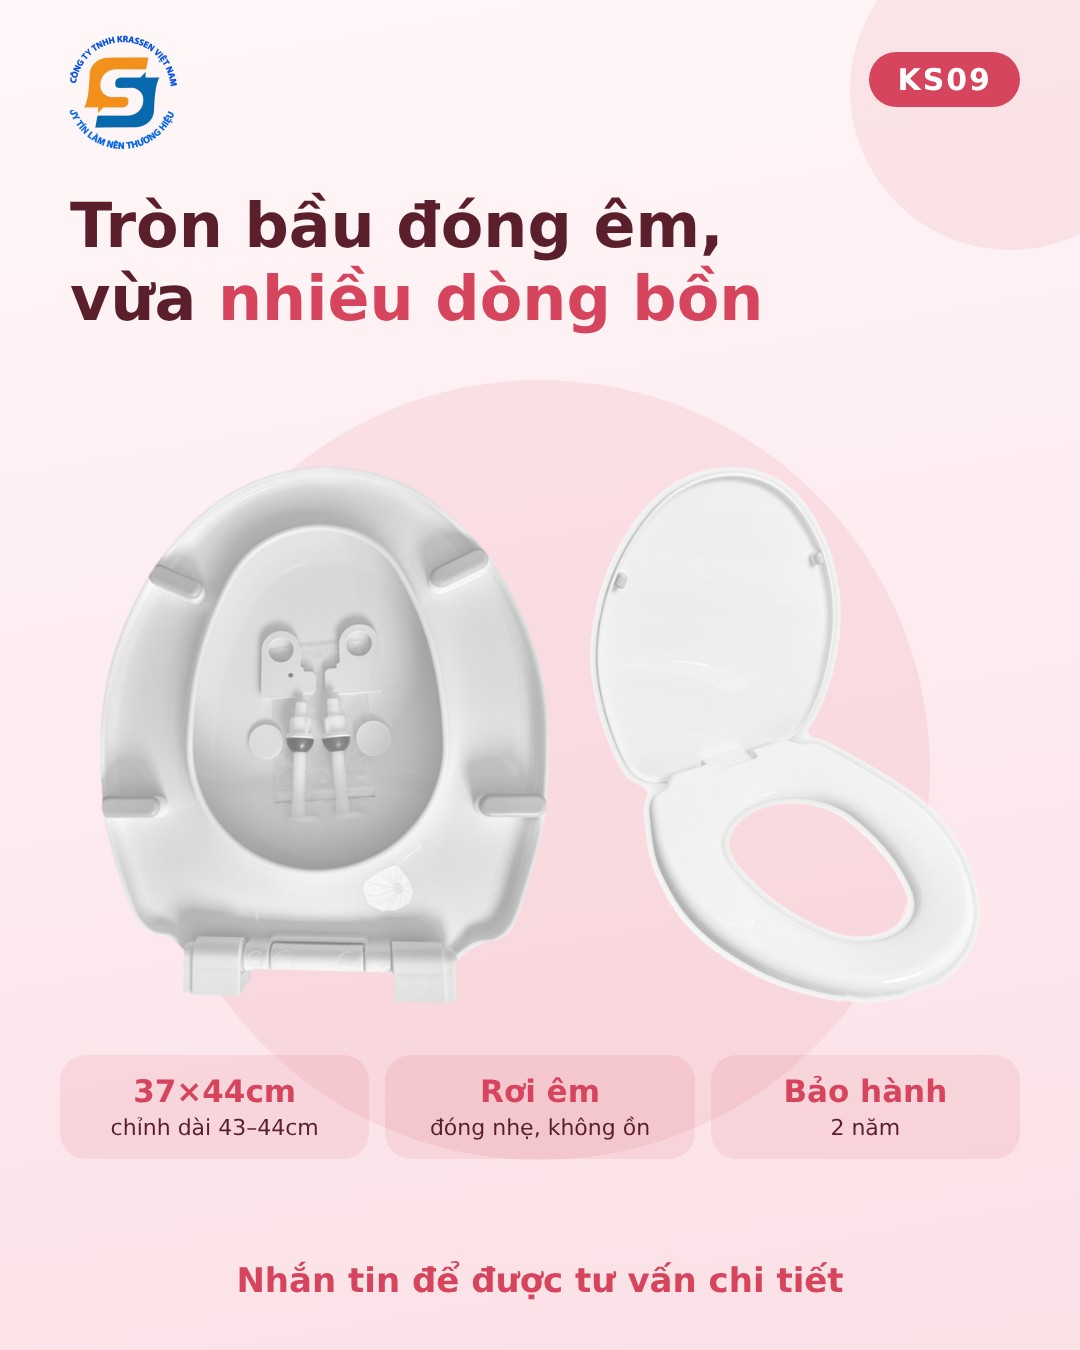
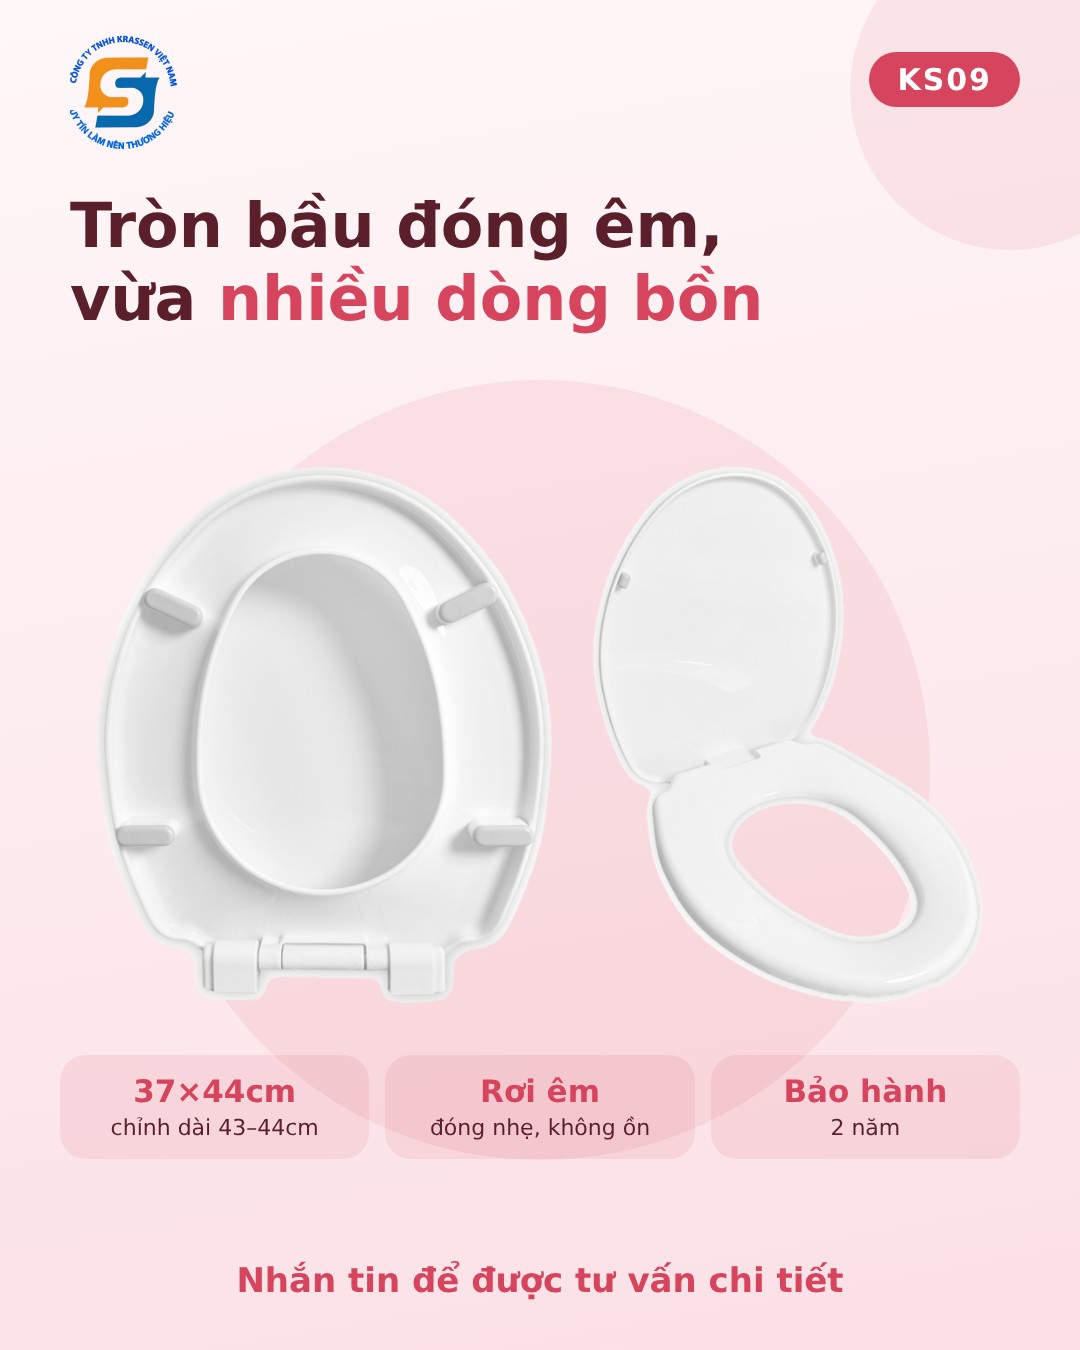
Manifest v8: doi ma KS04U->KS07U, KVS600->KSV600; them KS09U, KS12VB; anh moi KS09, KS005
Claude-Session: https://claude.ai/code/session_013caNe4PvgU8QmB7DtUJ3vr

diff --git a/tools/captions6.py b/tools/captions6.py
@@ -1,0 +1,57 @@
+# -*- coding: utf-8 -*-
+import json, re
+CTA = "📩 Nhắn tin để được tư vấn chi tiết và đúng size bồn cầu nhà bạn!"
+HT = "#krasen #napboncau #naproiem #suachuanhacua"
+_m = json.load(open('manifest.json'))
+_P = {p['code']: p for p in _m['products']}
+def renamed(old, new):
+    return [c.replace(old, new) for c in _P[old]['captions']]
+C = {
+ 'KS07U': renamed('KS04U', 'KS07U'),
+ 'KSV600': renamed('KVS600', 'KSV600'),
+ 'KS09U': [
+"""KS09U – nắp bồn cầu chữ U kiểu chụp kín bệ ngồi, 36×46cm 🚽
+✅ Rộng 36cm, dài 46cm (chỉnh dài 46–48cm tính từ mũi đến ngang 2 chân ốc vít)
+✅ Phù hợp bồn cầu rộng 35–36cm, dài 46–48cm
+✅ Nắp đậy chụp kín bệ ngồi, hạn chế nước làm ướt bệ ngồi khi sử dụng
+✅ Rơi chậm không gây tiếng ồn, màu trắng sữa phủ bóng hạn chế trầy xước
+✅ Nhựa PP nguyên sinh cao cấp không ố màu, nặng 1,4kg dày chắc chắn, bảo hành 1 năm
+Phù hợp TOTO (CW162, CW163…), Viglacera (P1135, V199…), American Standard (VF2309, VF2781)…""",
+"""Bồn cầu nhà bạn rộng 35–36cm, dài 46–48cm? KS09U chữ U kiểu chụp kín rất vừa 👌
+Nắp rộng 36cm, dài 46cm, chỉnh dài 46–48cm tính từ mũi đến ngang 2 chân ốc vít. Kiểu nắp đậy chụp kín bệ ngồi, hạn chế nước làm ướt bệ ngồi khi sử dụng.
+
+Rơi chậm không gây tiếng ồn, nhựa PP nguyên sinh cao cấp, trắng sữa phủ bóng, hạn chế trầy xước, không ố màu. Nặng 1,4kg dày chắc chắn, bảo hành 1 năm.
+
+Dùng cho TOTO (CW162, CW163…), Viglacera (P1135, V199…), American Standard (VF2309, VF2781)…""",
+"""🚽 KS09U – nắp bồn cầu chữ U chụp kín bệ ngồi
+▪ Kích thước 36×46cm, chỉnh dài 46–48cm
+▪ Hạn chế nước làm ướt bệ ngồi khi sử dụng
+▪ Rơi chậm, không gây tiếng ồn
+▪ Nhựa PP nguyên sinh cao cấp, trắng sữa phủ bóng, không ố màu
+▪ Nặng 1,4kg dày chắc chắn, bảo hành 1 năm
+Phù hợp bồn cầu rộng 35–36cm, dài 46–48cm: TOTO (CW162, CW163…), Viglacera (P1135, V199…), American Standard (VF2309, VF2781)…"""],
+ 'KS12VB': [
+"""KS12VB – nắp bồn cầu vuông bo rơi chậm 34×45cm ◻
+✅ Rộng 34cm, dài 45cm (chỉnh dài 45–46cm tính từ mũi đến ngang 2 chân ốc vít)
+✅ Phù hợp bồn cầu rộng 34–35cm, dài 45–46cm
+✅ Rơi chậm không gây tiếng ồn, màu trắng sữa phủ bóng hạn chế trầy xước
+✅ Nhựa PP nguyên sinh cao cấp không ố màu, nặng 1,2kg, bảo hành 1 năm
+Phù hợp Ceravi (C304, C315) và các bồn cầu vuông bo cạnh""",
+"""Bồn cầu vuông bo cạnh nhà bạn rộng 34–35cm, dài 45–46cm? KS12VB rất vừa 👌
+Nắp rộng 34cm, dài 45cm, chỉnh dài 45–46cm tính từ mũi đến ngang 2 chân ốc vít.
+
+Rơi chậm không gây tiếng ồn, nhựa PP nguyên sinh cao cấp, trắng sữa phủ bóng, hạn chế trầy xước, không ố màu. Nặng 1,2kg, bảo hành 1 năm.
+
+Dùng cho Ceravi (C304, C315) và các bồn cầu vuông bo cạnh.""",
+"""◻ KS12VB – nắp bồn cầu vuông bo rơi chậm
+▪ Kích thước 34×45cm, chỉnh dài 45–46cm
+▪ Rơi chậm, không gây tiếng ồn
+▪ Nhựa PP nguyên sinh cao cấp, trắng sữa phủ bóng, không ố màu
+▪ Nặng 1,2kg, bảo hành 1 năm
+Phù hợp bồn cầu rộng 34–35cm, dài 45–46cm: Ceravi (C304, C315) và các bồn vuông bo cạnh"""],
+}
+def full(code, i): return C[code][i] + "\n" + CTA + "\n" + HT
+if __name__ == '__main__':
+    import sys
+    for c in C:
+        for i in range(3): print('=====', c, i); print(full(c, i))

diff --git a/tools/gen6.py b/tools/gen6.py
@@ -1,0 +1,47 @@
+import os, sys, shutil
+sys.path.insert(0, '.')
+from PIL import Image
+from compose import cut
+import gen2, gen3
+from playwright.sync_api import sync_playwright
+
+shutil.copy('img/KS04U_pair.png', 'img/KS07U_pair.png')
+shutil.copy('img/KVS600_pair.png', 'img/KSV600_pair.png')
+PAIRS = {'KS09U': ['src/KS09U/1.png', 'src/KS09U/2.png'], 'KS12VB': ['src/KS12VB/2.png', 'src/KS12VB/15.png']}
+for code, files in PAIRS.items():
+    ims = [cut(f) for f in files]
+    H = 620; ims = [im.resize((max(1, int(im.width * H / im.height)), H)) for im in ims]
+    gap = 40; W = sum(i.width for i in ims) + gap * (len(ims) - 1) + 20
+    cv = Image.new('RGBA', (W, H + 20), (0, 0, 0, 0)); x = 10
+    for im in ims: cv.alpha_composite(im, (x, 10)); x += im.width + gap
+    cv.save(f'img/{code}_pair.png'); print(code, cv.size)
+
+S = lambda a, b: (a, b)
+OLD = [
+ dict(code='KS07U', style=7, title='Chữ U đúc đặc cao cấp,<br><b>dày chắc</b> 1,6kg', specs=[S('36×46cm','chỉnh dài 45–46cm'), S('Đúc đặc','nhựa PP cao cấp'), S('Bảo hành','2 năm')]),
+ dict(code='KSV600', style=6, title='Chữ V bản đặc biệt,<br><b>dày chắc</b> 1,8kg', specs=[S('37×47cm','chỉnh dài 46–48cm'), S('1,8kg','dày chắc chắn'), S('Bảo hành','2 năm')]),
+ dict(code='KS09U', style=8, title='Chữ U chụp kín bệ ngồi,<br><b>rơi chậm</b> không ồn', specs=[S('36×46cm','chỉnh dài 46–48cm'), S('1,4kg','dày chắc chắn'), S('Bảo hành','1 năm')]),
+ dict(code='KS12VB', style=6, title='Vuông bo 34×45cm,<br><b>rơi chậm</b> không ồn', specs=[S('34×45cm','chỉnh dài 45–46cm'), S('1,2kg','nhựa PP cao cấp'), S('Bảo hành','1 năm')]),
+]
+NEW = [
+ dict(code='KS07U', style=12, title='U đúc đặc 1,6kg,<br>đóng <em>nhẹ nhàng</em>', specs=[S('36×46cm','chỉnh dài 45–46cm'), S('Đúc đặc','nhựa PP cao cấp'), S('Bảo hành','2 năm')]),
+ dict(code='KSV600', style=12, title='Bản đặc biệt chữ V,<br>rơi chậm <em>không ồn</em>', specs=[S('37×47cm','chỉnh dài 46–48cm'), S('1,8kg','dày chắc chắn'), S('Bảo hành','2 năm')]),
+ dict(code='KS09U', style=9, title='Chụp kín bệ ngồi,<br>hạn chế <em>nước ướt</em>', specs=[S('36×46cm','chỉnh dài 46–48cm'), S('1,4kg','dày chắc chắn'), S('Bảo hành','1 năm')]),
+ dict(code='KS12VB', style=10, title='Vuông bo hiện đại,<br>rơi chậm <em>không ồn</em>', specs=[S('34×45cm','chỉnh dài 45–46cm'), S('1,2kg','nhựa PP cao cấp'), S('Bảo hành','1 năm')]),
+]
+os.makedirs('out6', exist_ok=True)
+with sync_playwright() as pw:
+    b = pw.chromium.launch(); pg = b.new_page(viewport={'width': 1080, 'height': 1350})
+    for tag, lst, mod in (('', OLD, gen2), ('_b', NEW, gen3)):
+        for p in lst:
+            fn = f"_n6_{p['code']}{tag}.html"; open(fn, 'w').write(mod.html(p))
+            pg.goto('file://' + os.path.abspath(fn)); pg.wait_for_timeout(250)
+            pg.screenshot(path=f"out6/{p['code']}{tag}.png")
+            pg.screenshot(path=f"out6/{p['code']}{tag}.jpg", type='jpeg', quality=90)
+    b.close()
+def mont(codes, name):
+    ims = [Image.open(f"out6/{c}{t}.png").convert('RGB').resize((540, 675)) for c in codes for t in ('', '_b')]
+    m = Image.new('RGB', (540 * 4, 675), 'white')
+    for i, im in enumerate(ims): m.paste(im, (i * 540, 0))
+    m.save(name, quality=88)
+mont(['KS09U', 'KS12VB'], 'out6/montage_new.jpg'); mont(['KS07U', 'KSV600'], 'out6/montage_rename.jpg'); print('xong')

diff --git a/tools/gen7.py b/tools/gen7.py
@@ -1,0 +1,32 @@
+import os, sys
+sys.path.insert(0,'.')
+from PIL import Image
+from compose import cut
+import gen, gen3
+from playwright.sync_api import sync_playwright
+PAIRS={'KS09':['src/KS09N/1.png','src/KS09N/2.png'],'KS005':['src/KS005N/1.png','src/KS005N/5.png']}
+for code,files in PAIRS.items():
+    ims=[cut(f) for f in files]; H=620
+    ims=[im.resize((max(1,int(im.width*H/im.height)),H)) for im in ims]
+    gap=40; W=sum(i.width for i in ims)+gap+20
+    cv=Image.new('RGBA',(W,H+20),(0,0,0,0)); x=10
+    for im in ims: cv.alpha_composite(im,(x,10)); x+=im.width+gap
+    cv.save(f'img/{code}_pair.png'); print(code,cv.size)
+S=lambda a,b:(a,b)
+OLD=[dict(code='KS09',style=5,title='Tròn bầu gọn gàng,<br><i>đóng êm</i> bền màu',specs=[S('37×44cm','chỉnh dài 43–44cm'),S('Rơi êm','đóng nhẹ, không ồn'),S('Bảo hành','2 năm')]),
+     dict(code='KS005',style=1,title='Dáng trứng thanh thoát,<br>đóng <span>êm</span> rơi chậm',specs=[S('36×45cm','chỉnh dài 43–46cm'),S('1,3kg','dày chắc chắn'),S('Bảo hành','2 năm, trắng sữa phủ bóng')])]
+NEW=[dict(code='KS09',style=9,title='Tròn bầu đóng êm,<br>vừa <em>nhiều dòng bồn</em>',specs=[S('37×44cm','chỉnh dài 43–44cm'),S('Rơi êm','đóng nhẹ, không ồn'),S('Bảo hành','2 năm')]),
+     dict(code='KS005',style=11,title='Hình trứng nhẹ nhàng,<br>đóng <em>êm</em> rơi chậm',specs=[S('36×45cm','chỉnh dài 43–46cm'),S('1,3kg','dày chắc chắn'),S('Bảo hành','2 năm, trắng sữa phủ bóng')])]
+os.makedirs('out7',exist_ok=True)
+with sync_playwright() as pw:
+    b=pw.chromium.launch(); pg=b.new_page(viewport={'width':1080,'height':1350})
+    for tag,lst,mod in (('',OLD,gen),('_b',NEW,gen3)):
+        for p in lst:
+            fn=f"_n7_{p['code']}{tag}.html"; open(fn,'w').write(mod.html(p))
+            pg.goto('file://'+os.path.abspath(fn)); pg.wait_for_timeout(250)
+            pg.screenshot(path=f"out7/{p['code']}{tag}.png"); pg.screenshot(path=f"out7/{p['code']}{tag}.jpg",type='jpeg',quality=90)
+    b.close()
+ims=[Image.open(f"out7/{c}{t}.png").convert('RGB').resize((540,675)) for c in ('KS09','KS005') for t in ('','_b')]
+m=Image.new('RGB',(2160,675),'white')
+for i,im in enumerate(ims): m.paste(im,(i*540,0))
+m.save('out7/montage.jpg',quality=88); print('ok')
